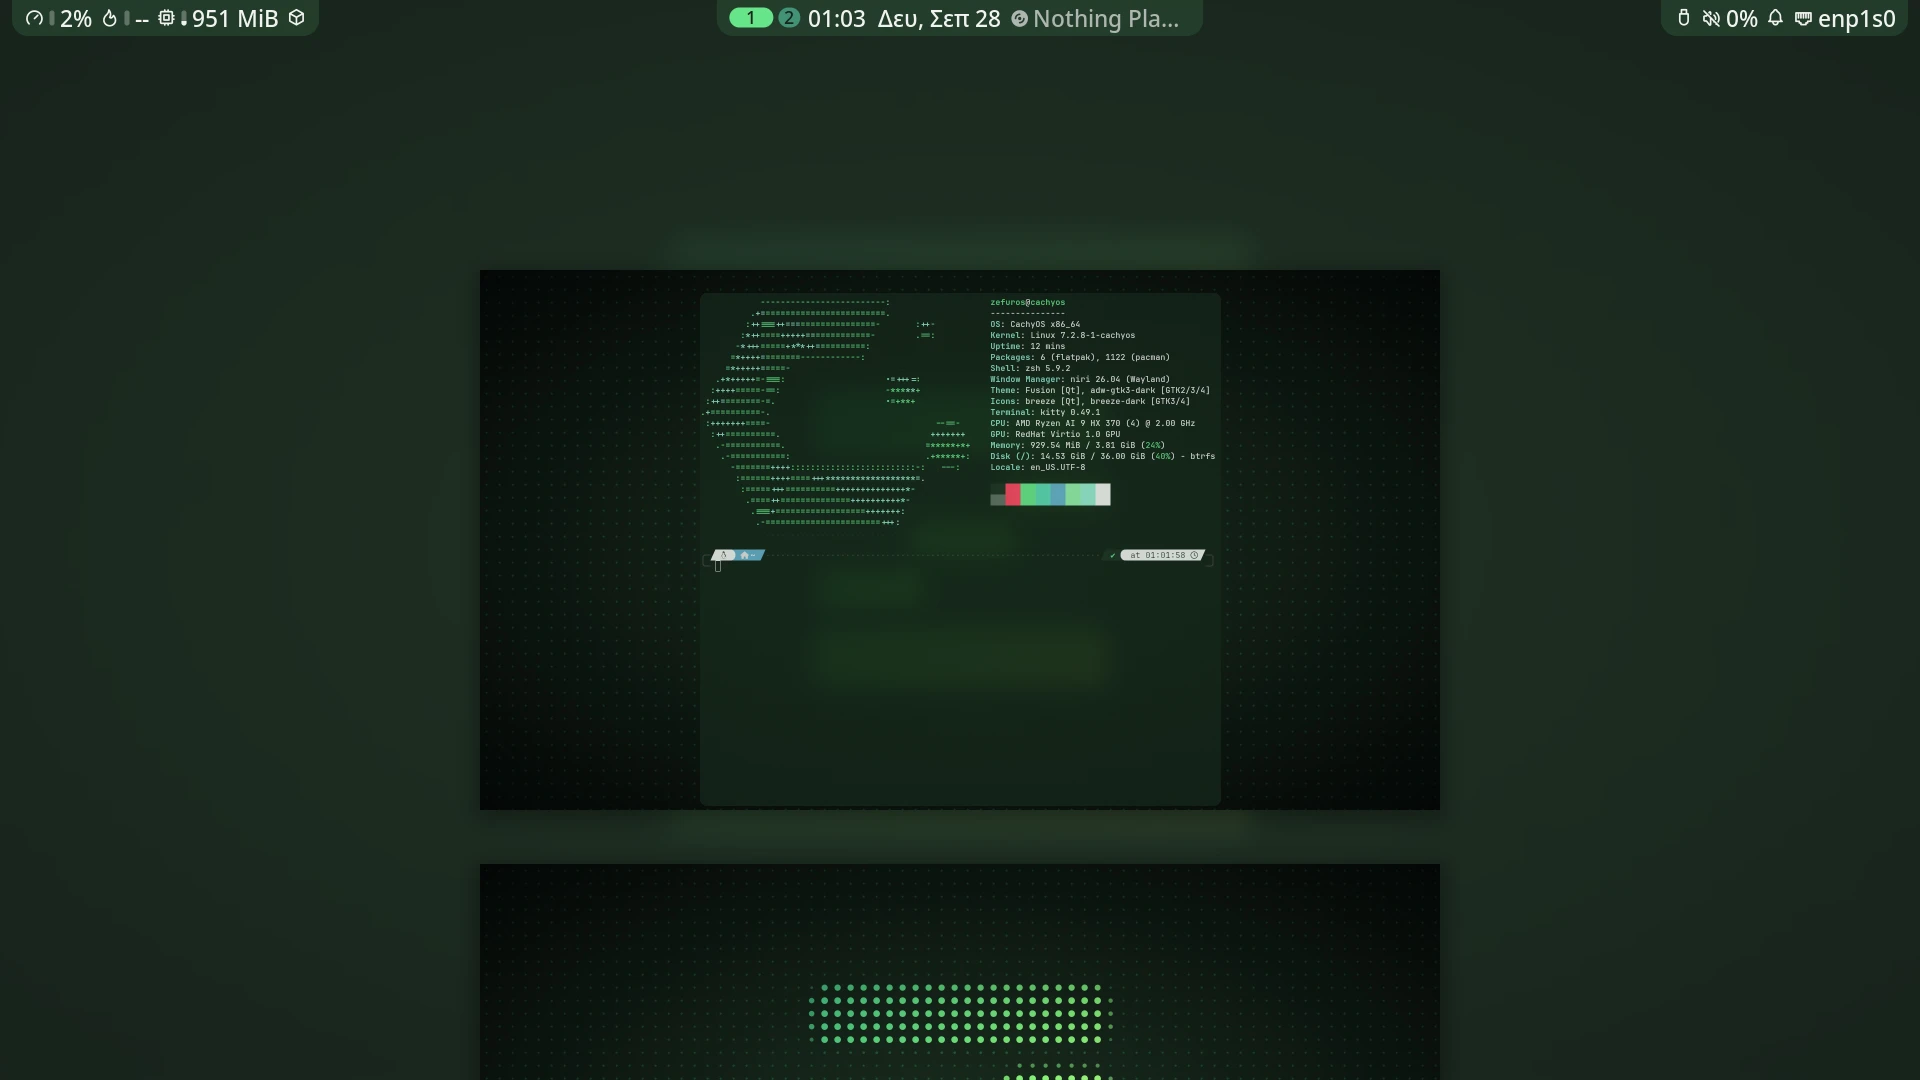
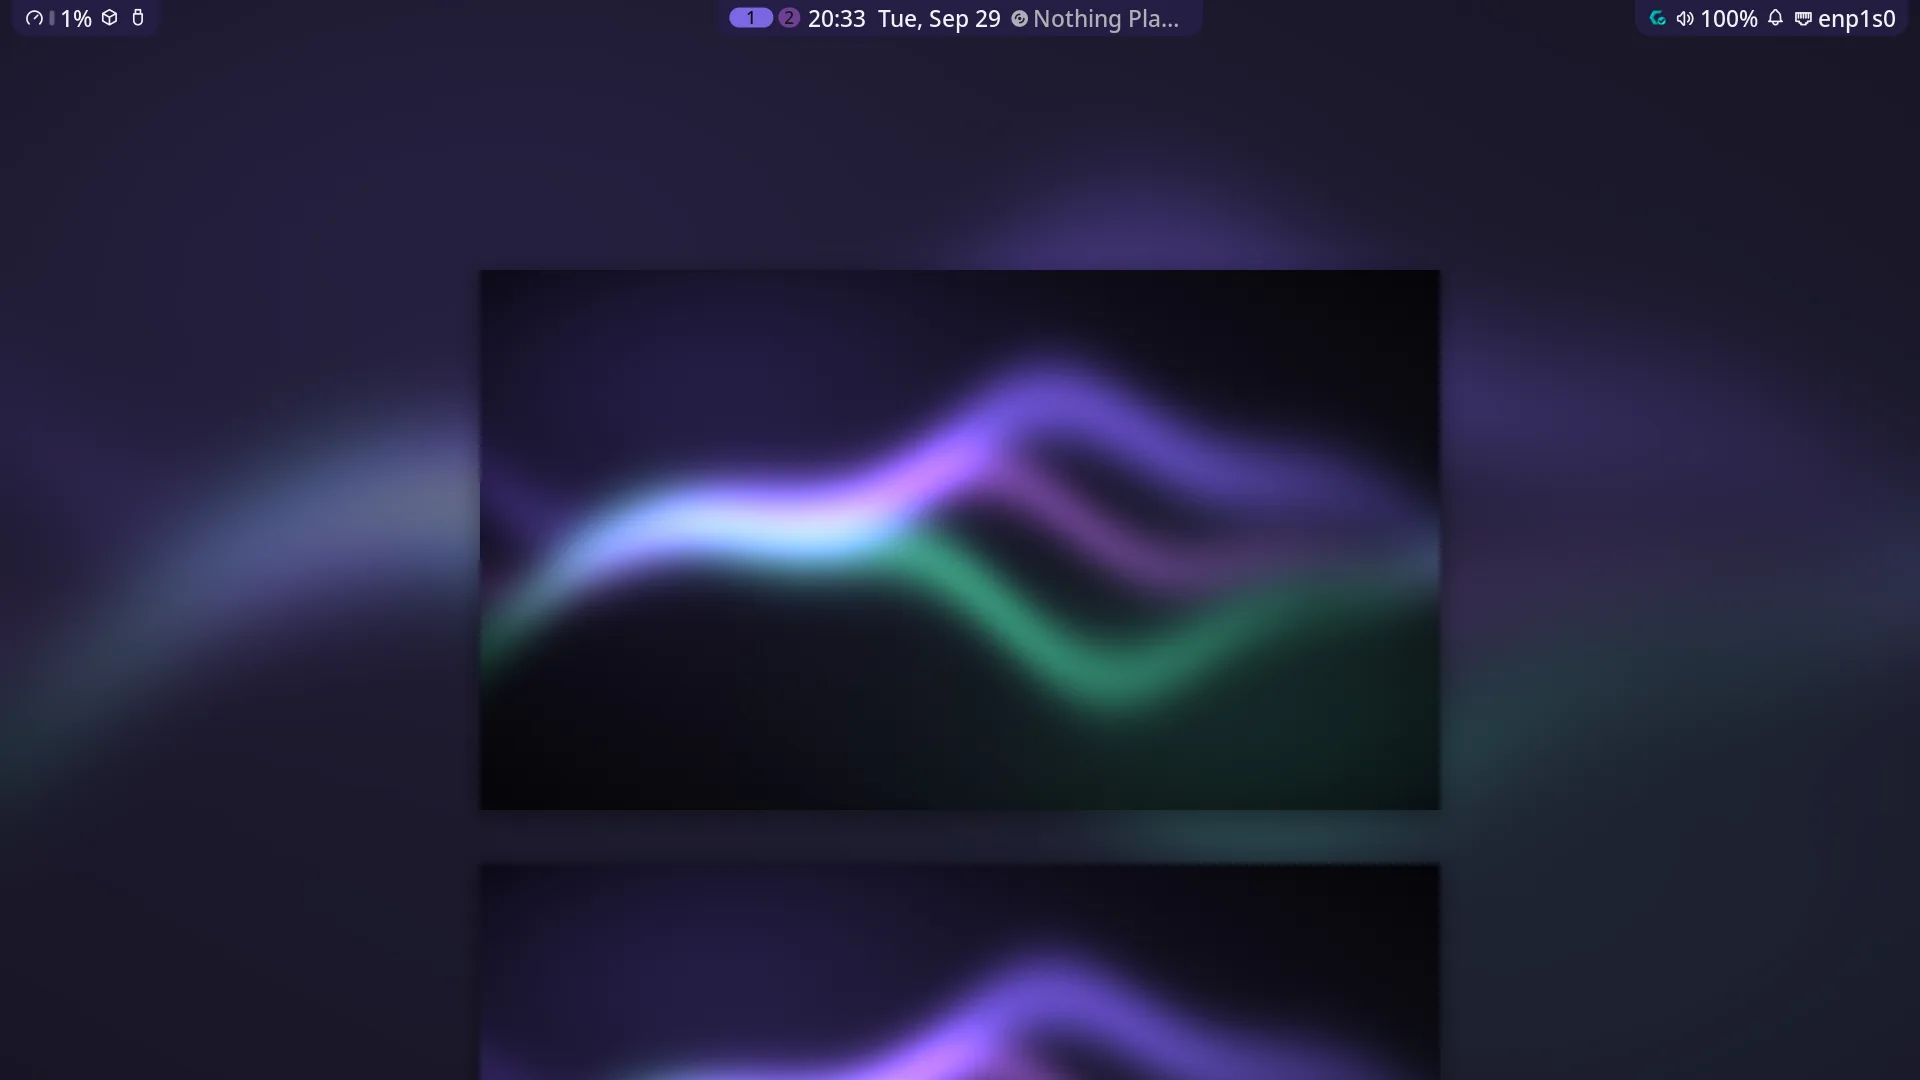
New screenshots, and fastfetch no longer scrambles in half-width windows
Nine fresh screenshots, each showing one thing in its own colour: kitty
on CachyOS, Arch and EndeavourOS, the launcher, control center, empty
overview, Dolphin, the wallpaper picker and light mode. The real CPU,
local IP and weather are blurred out.

fastfetch's lines were too long for a half-width kitty window, so they
wrapped under the logo and scrambled it. The new fastfetch config cuts
them at the window edge instead.

diff --git a/README.md b/README.md
@@ -24,15 +24,17 @@ What you get:
 
 The whole desktop takes its colours from the wallpaper, so every screenshot below looks different.
 
-![kitty with fastfetch on the violet topo wallpaper](docs/screenshots/desktop.webp)
+| CachyOS | Arch Linux | EndeavourOS |
+|---|---|---|
+| ![kitty with fastfetch on CachyOS, purple dots wallpaper](docs/screenshots/kitty-cachyos.webp) | ![kitty with fastfetch on Arch Linux, cyan bars wallpaper](docs/screenshots/kitty-arch.webp) | ![kitty with fastfetch on EndeavourOS, green dots wallpaper](docs/screenshots/kitty-eos.webp) |
 
 | Launcher | Control center | Overview |
 |---|---|---|
-| ![Noctalia launcher on an orange wallpaper](docs/screenshots/launcher.webp) | ![Noctalia control center on a blue wallpaper](docs/screenshots/control-center.webp) | ![niri overview on a green wallpaper](docs/screenshots/overview.webp) |
+| ![Noctalia launcher on a blue wallpaper](docs/screenshots/launcher.webp) | ![Noctalia control center on a mint wallpaper](docs/screenshots/control-center.webp) | ![niri overview with no windows on a violet wallpaper](docs/screenshots/overview.webp) |
 
-| Empty desktop | Empty desktop |
-|---|---|
-| ![The red topo wallpaper with only the bar](docs/screenshots/empty-topo-ember.webp) | ![The mark wallpaper with only the bar](docs/screenshots/empty-mark.webp) |
+| Files | Wallpaper picker | Light mode |
+|---|---|---|
+| ![Dolphin on a red topo wallpaper](docs/screenshots/dolphin.webp) | ![The wallpaper picker on a silver wallpaper](docs/screenshots/roller.webp) | ![Light mode with only the bar](docs/screenshots/light-mode.webp) |
 
 ## Install
 
